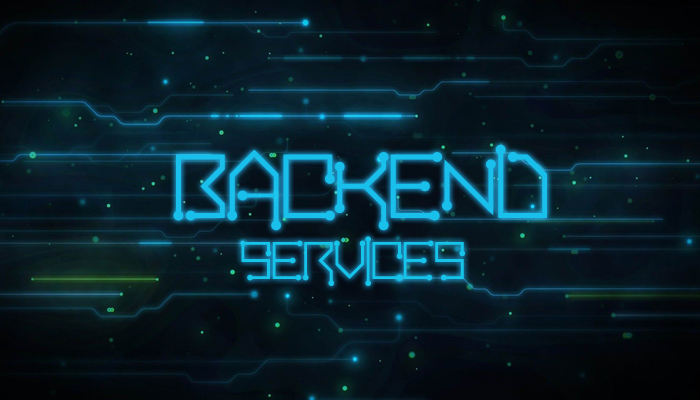
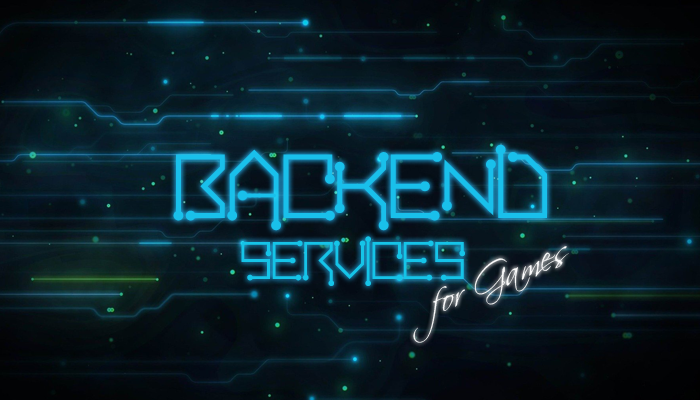
article: Backend Services for Games - Concepting

Changed region(s): [[0.57, 0.6, 0.81, 0.87]]

diff --git a/content/code/backend-services-01-concepting/index.md b/content/code/backend-services-01-concepting/index.md
@@ -1,70 +1,101 @@
 ---
-title: "Backend Services - Concepting"
-date: 2021-06-29
+title: "Backend Services for Games - Concepting"
+date: 2020-06-29
 
 categories: ['Game Development', 'Backend']
-tags: ['multiplayer', 'backend', 'auth']
+tags: ['multiplayer', 'backend for games', 'auth']
 author: "Emanuele Manzione"
 noSummary: false
 
 resizeImages: false
 ---
-During my career I often worked as backend developer for multiple games and it is a pretty interesting matter. Recently I started to work on a game of mine with some other fellows, the game is named "__*Duke it out in the arena!*__": I will certainly write something about it later this year. However, for this game I am dealing with *(do you dare to guess?)* the backend architecture.
+During my career I often worked as backend developer for multiple games and I have to say I liked it.
 
-Because of the game's multiplayer nature, we will need common services like auth, chat, lobbies, matchmaking, storaging, etc.
+I find the whole thing really interesting: it offers nice challenges and forces you to learn a lot of concepts, in order to be effective.
 
-I find the whole thing really interesting, for this reason I decided to describe my process with some articles on this blog, with this new series. It could be useful for readers who want to learn, but in the end it will surely be useful for me, in order to fix ideas and to collect feedback from other developers about my workflow.
+For this reason I decided to describe my process with some articles on this blog, with this new series. It could be useful for readers who want to learn, but in the end it will surely be useful for me, in order to fix ideas and to collect feedback from other developers about my workflow.
+
+So let's start.
 
 ### Composition of a backend architecture
 
-My main approach when it comes to build a backend from scratches is to split functionalities in multiple, standalone services that can operate on their own, independently, with minimal dependencies among each others.
+My first step when it comes to build something so massive from scratch is to identify requirements and constraints for the architecture I am going to build and functionalities the game needs.
 
-So let's proceed by identifying common functionalities I surely need (probably in every game's backend):
+So let's proceed by identifying them.
 
-- I need a way to __*authenticate*__ an user
-- users' requests need to be __*valid*__, so I need to craft a system to ensure all requests come from the authenticated user before any further processing
-- I need a way to __*log*__ what happens in the whole architecture during runtime: errors, exceptions, debug data, etc. all in a convenient place like a dashboard
-- I need a way to __*store*__ users' data, in a generic way. Every subservice can throw at it arbitrary data to store (and can retrieve it too) at any moment
-- I need a way to __*describe a subservice*__ and its logic to compose the real behavior of my backend
-- the whole thing must be __*scalable*__: it means the architecture has to be able to correctly manage any kind of load
+##### Requirements and constraints
 
-The previous list represents the base functionalities of my architecture. Something I will reuse over all my backend projects.
+- __*Logging*__: storing a trace of what happens in the whole architecture: errors, warnings, unexpected situations, transactions, etc. Everything needed to understand what is going on in the whole system.
+- __*Metrics*__: collecting metrics from the whole architecture: resources usage, load, responsiveness, average response times, errors rateo, etc. Everything needed to understand how the whole system is performing.
+- __*Scalability*__: the architecture should manage any load without going down or degrading.
+- __*Decoupling*__: all subsystems should be independent from each others. This ensures the maximum modularity and...
+- __*Fault tolerance*__: the system should be able to recover from an error and/or from the failure of a subsystem without impacting other subsystems.
 
-But alone those functionalities do not make our architecture usable for a game. I need to add subservices in order to define the actual business logic of the whole thing. Let's see what I need:
+##### Functionalities
 
-- a __*chat*__ subservice. Every respectable multiplayer game has a chat!
-- a __*lobby*__ subservice. Users can group together to join the game, basically
-- a __*matchmaking*__ subservice. It manages the matches composition, matching together lobbies with some (currently undefined) criteria
+- __*Authentication*__: the players must be able to authenticate. Ideally this exposes an account system but also a way to authenticate with Facebook, Twitter, etc.
+- __*Chat*__: all respectable multiplayer games have a chat!
+- __*Matchmaking*__: group players together (1 or more), match groups together to compose matches.  
 
-For each previously listed point I will go to create an article to describe my implementation.
+For each previously listed point I will write an article to discuss a possible implementation.
+
+And now let's sketch out something that can fit with our plans!
 
 ### Sketching out the architecture
 
-Let's sketch out something that can fit with our plans! Currently we know users will send messages we have to process to alter the internal state of our game.
-Before processing them, we want to be sure that the sender is authenticated and the message is well-formed (*validation*). A specialized subservice can deal with this validation step: I called it __*Frontend Service*__. It just collect messages from users and validates them. Neat.
-After this step we know that the message is valid and we are ready to push it deeper in our architecture, by routing it to the correct subservice. Subservices will process the data, store information if needed and report back the result.
+How to organize and expose all those functionalities? How to build a proper architecture that can support our needs?
 
-> It is important noting that having a frontend service to manage incoming messages has another hidden benefit: you can decouple the protocol you use to communicate in your architecture from the protocol your clients use to connect and send messages. Example: your clients could use Websocket to establish the connection and to exchange data with the Frontend Service, and your backend architecture can use HTTP and TCP/UDP to communicate internally.
+I decided to follow the __*microservices architectural pattern*__. Basically the whole backend will be made of a collection of independent, loosely coupled, self-contained micro applications (micro services) that will deal with a specific part of the business logic.
 
-But don't forget about another constraint we want to satisfy: the __*scalability*__. The whole system has to work under any load. We can't say: *"hey, you can't connect, we are already managing 10000 users. Come back in an hour or two"*. Not in my backend!
+This decision brings to the table some __*advantages*__:
 
-Of course I want to consider some scenarios: what if our subservices can't manage the load? Or our frontend service goes down on its knees because of the traffic burst? I need __*multiple*__ frontend services, generally I need __*N*__ subservices instances that can perform the same task and share the load dynamically. And they have to act like a single one: if instance Y changes the state of my game, other instances have to be aware of this.
+- we can use different technologies for different services. This means you can pick the best tech for a specific task without affecting other services.
+- smaller, independent applications are:
+  - easier to develop
+  - easier to test
+  - easier to understand
+- deployment is easier, it does not affect other services so you can push bugfixes easier
 
-It should look like this:
+but also some __*disadvantages*__:
 
-![Backend_Architecture](simple.png "Backend architecture")
+- debugging interservices operations could be hard
+- services need a way to communicate with each others (this means an additional layer of complexity)
+- the base resources requirement is higher (multiple instances, so multiple host runtimes, etc)
 
-So now I have multiple instances of everything, but something is still missing. Something has to manage all these instances, something has to __*orchestrate*__ the whole architecture. That's why I add another specialized subservice: I named it __*Orchestrator Service*__. Its role is just to keep track of which instances are currently spawned, their load, their details. Not only: it has to be able to spawn instances when needed or destroy them when there is no load. Also, it offers an API to retrieve which service is available to be connected to.
-Example: I am the player, I want to connect to a frontend service. I ping an endpoint to retrieve the available endpoint to connect to. Not only, this can be used internally by the subservices if they need to communicate with another one.
+Another interesting thing to note is: we don't want to expose our subsystems to the outer world. Ideally we want to isolate them, so that clients cannot send requests directly. This is for two reasons:
 
-Here it is:
+- malicious users cannot try to exploit the internal API (generally, they should not be able to mess with it)
+- the client don't need to know the address of each service we deploy
 
-![Backend_Architecture](orchestrator.png "Backend architecture")
+Also, it could be desiderable assuming that the internal API will only receive already validated and authorized requests, in this way we don't need to duplicate validation and authorization logic on every service.
 
-### Implementation
+For satisfying these needs the only service we publicly expose will be the __*API Gateway*__.
 
-I will implement this architecture on __*.NET Core*__ with __*C#*__. I will push the project on GitHub as independent packages since it will be highly modular.
-Probably I will also experiment with Azure this time: they have a nice tooling for backend development!
+It just collects messages from users, validates them (checking they are well-formed, they contain something in particular, etc), authorizes them (checking they come from an authorized user). Neat.
+
+After this step we know that the message is valid and we are ready to push it deeper in our architecture, by routing it to the correct service. Other services will process the data, store information if needed and report back the result.
+
+> It is important to note that having an API Gateway to manage incoming messages has an additional hidden benefit: you can *decouple* the protocol you use to communicate among your internal architecture from the protocol your clients use to connect and send messages. Example: your clients could use __*Websocket*__ or __*HTTP*__ to establish the connection and to exchange data with the API Gateway, and your backend architecture can use __*TCP*__ or __*UDP*__ to communicate internally.
+
+But don't forget about another constraint we want to satisfy: the __*scalability*__. The whole system has to work under any load. We can't say: *"hey, you can't connect, we are already managing 10,000 users. Come back in an hour or two"*. Not in my backend!
+
+### Orchestrator
+
+What if our services can't manage the load? Or our API Gateway goes down on its knees because of the traffic burst? I would need __*multiple*__ API Gateway on different servers. Generally speaking, I would need __*N*__ service instances, on different physical servers, that can perform the same tasks and share the load dynamically. And they have to act like a single one: if instance Y changes the state of my game, other instances have to be aware of this.
+
+Now we have multiple instances of everything, but something is still missing. Something must manage all these instances, something must __*orchestrate*__ the whole architecture. Its role should be to keep track of which instances are currently spawned, their load, their details. Not only: it has to be able to spawn instances when needed or destroy them when there is no load.
+
+You can write your own solution or you can simply use something already battle-tested like __*Kubernetes*__ or __*Docker Swarm*__.
+
+The architecture at this point should look like this:
+
+![Backend_Architecture](architecture.png "Backend architecture")
+
+### Final notes
+
+I usually work with __*.NET Core*__, so expect to see a lot of __*C#*__: for this project it will be my tech of choice.
+
+Every service will be packaged in a __*Docker container*__.
 
 I hope it was clear and straightforward.
-In the next article I will start to implement the first service: the Auth.
+In the next article I will start to implement the first service.

diff --git a/content/code/simple-entity-component-system/index.md b/content/code/simple-entity-component-system/index.md
@@ -1,0 +1,65 @@
+---
+title: "A simple Entity Component System"
+date: 2030-04-15
+
+categories: ['Game Development']
+tags: ['ECS', 'Performance', 'Optimizations']
+author: "Emanuele Manzione"
+noSummary: false
+
+resizeImages: false
+---
+Despite the fact ECS pattern and data-oriented programming are a thing in game development industry since a very long time, in the indie world I've heard a lot of raising hype around it only in the last few years. Probably because of Unity pushed it a lot recently, but more developers are approaching it for their games.
+I never used it, so I am very curious to understand this pattern in a more detailed way and what it could bring to the table.
+
+<!--more-->
+
+The best way for me to learn something new is to code it. So this article is all about my own implementation of this pattern in C#. Let's start!
+
+#### What is an Entity Component System?
+
+It is an architectural pattern (it controls the fundamental structure of how your software) that follows the **composition over inheritance** principle. It is composed by three main concepts:
+
+* **Entity**: it represents the unit, a general purpose object. Usually it is just an ID.
+* **Component**: it represents the data and has no logic.
+* **System**: it represents the logic to execute on components.
+
+#### Why is it interesting?
+
+It has some interesting upsides. Obviously, it promotes a data-oriented approach so it exploits the way the CPU **cache** works (with evident gainings in performance). But that's not the most important thing, imho.
+
+It is **strict**: it forces you to follow a specific code architecture, so you can actually think about how to solve the actual problem instead of focusing on the architecture to support the code you're going to write. The **composition over inheritance** principle makes your code easily expandable and tunable, with a general improvement in **maintainability**. Not only, it is easily **testable**: you just have to mock some components in order to test a system.
+
+So, in general, my interest for it is oriented on the improvements it can bring in my team's workflow and on the **quality** of our codebases/games. 
+
+So let's explore it!
+
+#### Implementation goals
+
+Before I dive into the implementation, I want to fix some goals and constraints.
+
+* I use C# and .NET Core
+* I am learning from this, so my implementation will be simple and easy to understand
+* It should be usable by other devs in the team, so a good API is mandatory
+* Components have to be structs and I want to avoid boxing/unboxing where possible
+* No runtime reflection
+
+#### The Entity
+
+Let's start simple! The entity is just an ID, so nothing fancy or complicated:
+
+```csharp
+[StructLayout(LayoutKind.Sequential)]
+public struct Entity
+{
+    public uint Handle;
+}
+```
+
+#### The World
+
+A World instance is basically a big container of entities and components. It also handles and runs all systems.
+
+#### The Component
+
+Components are just data, so I am going to represent them with simple structs (in this way they are contiguous in memory).

diff --git a/content/code/csharp-rust-and-unity/index.md b/content/code/csharp-rust-and-unity/index.md
@@ -14,7 +14,7 @@ Rust is a safe and fast low-level language and recently I got enthusiastic about
 
 #### Getting started
 
-I assume that you already know a little bit how to work with Rust and Cargo, so I will not speak about how to install the compiler and its environment.
+I assume that you already know a little bit how to work with Rust and Cargo, so I will not speak about how to install the compiler and its environment. Also, I am working on Windows: the approach may be different for other platforms.
 
 I create a new lib project with `cargo init --lib` and specify in Cargo.toml that I want a dynamic library as output:
 
@@ -23,6 +23,8 @@ I create a new lib project with `cargo init --lib` and specify in Cargo.toml tha
 name = "unity_rust"
 crate-type = ["dylib"]
 ```
+
+> On macOS you must use `crate-type = ["cdylib"]`. If not it will complain about missing libc.
 
 To know more about this topic, click [here](https://doc.rust-lang.org/reference/linkage.html).
 
@@ -47,7 +49,11 @@ Now I run `cargo build` or `cargo build --release` and the compiled library will
 
 #### On Unity side
 
-I create a `Plugins` folder in the Unity project and put there the compiled native DLL. So I create the C# interop code:
+I create a `Plugins` folder in the Unity project and put there the compiled native DLL.
+
+> If you are on macOS, you must change the extension of the compiled library from `.dylib` to `.bundle` before putting it in the `Plugins` folder.
+
+Then I create the C# interop code (you can put this `.cs` file wherever you prefer in the Unity Project):
 
 ```csharp
 using System.Runtime.CompilerServices;

diff --git a/content/code/backend-services-02-auth-service/index.md b/content/code/backend-services-02-auth-service/index.md
@@ -1,6 +1,6 @@
 ---
 title: "Backend Services - Auth"
-date: 2021-07-06
+date: 2030-07-06
 
 categories: ['Game Development', 'Backend']
 tags: ['multiplayer', 'backend', 'auth']
@@ -36,5 +36,3 @@ The Auth Service is going to be built with ASP.NET Core and C#, a simple web API
 ### Login
 
 The first functionality we want to expose is certainly the login.
-
-serviziotecnico@axitea.it

diff --git a/content/code/multiplayer-rpg-04-networking-2/index.md b/content/code/multiplayer-rpg-04-networking-2/index.md
@@ -1,6 +1,6 @@
 ---
 title: "Multiplayer RPG Series - Networking Layer"
-date: 2021-11-24
+date: 2031-11-24
 
 categories: ['Game Development', 'Networking']
 tags: ['multiplayer', 'rpg']

diff --git a/content/code/multiplayer-rts-01-introduction/index.md b/content/code/multiplayer-rts-01-introduction/index.md
@@ -1,6 +1,6 @@
 ---
 title: "Multiplayer RTS - Introduction"
-date: 2021-02-23
+date: 2031-02-23
 
 categories: ['Game Development', 'Networking']
 tags: ['multiplayer', 'rts']

diff --git a/content/code/multiplayer-rts-02-concepting/index.md b/content/code/multiplayer-rts-02-concepting/index.md
@@ -1,6 +1,6 @@
 ---
 title: "Multiplayer RTS - Concepting"
-date: 2021-02-23
+date: 2031-02-23
 
 categories: ['Game Development', 'Networking']
 tags: ['multiplayer', 'rts']
